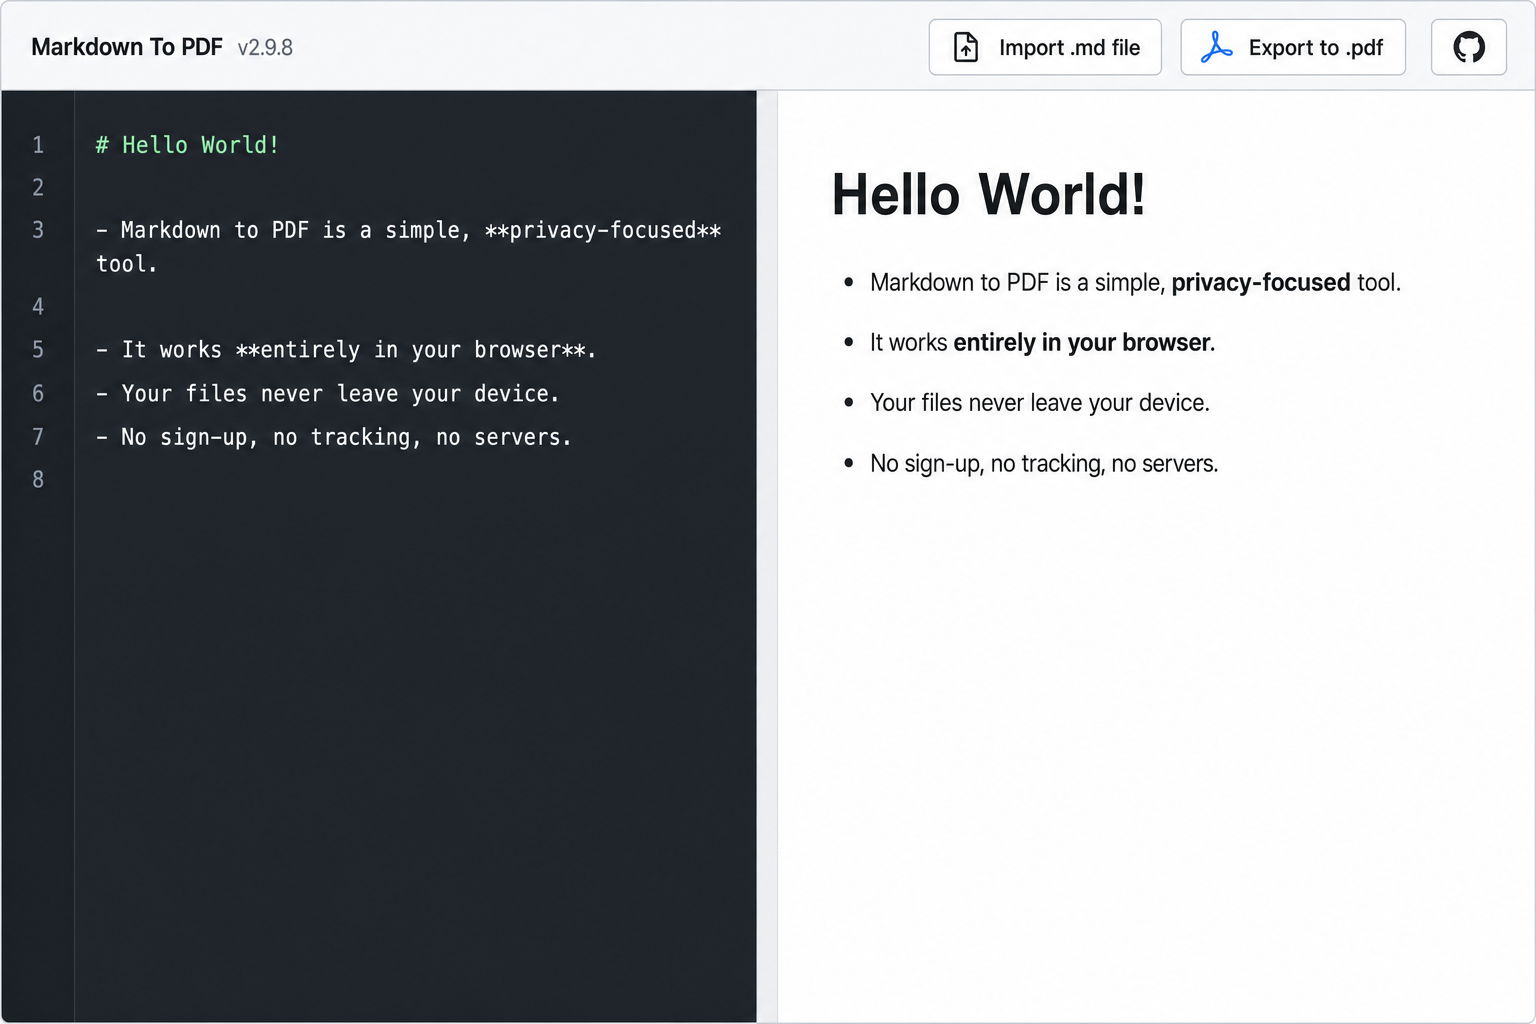
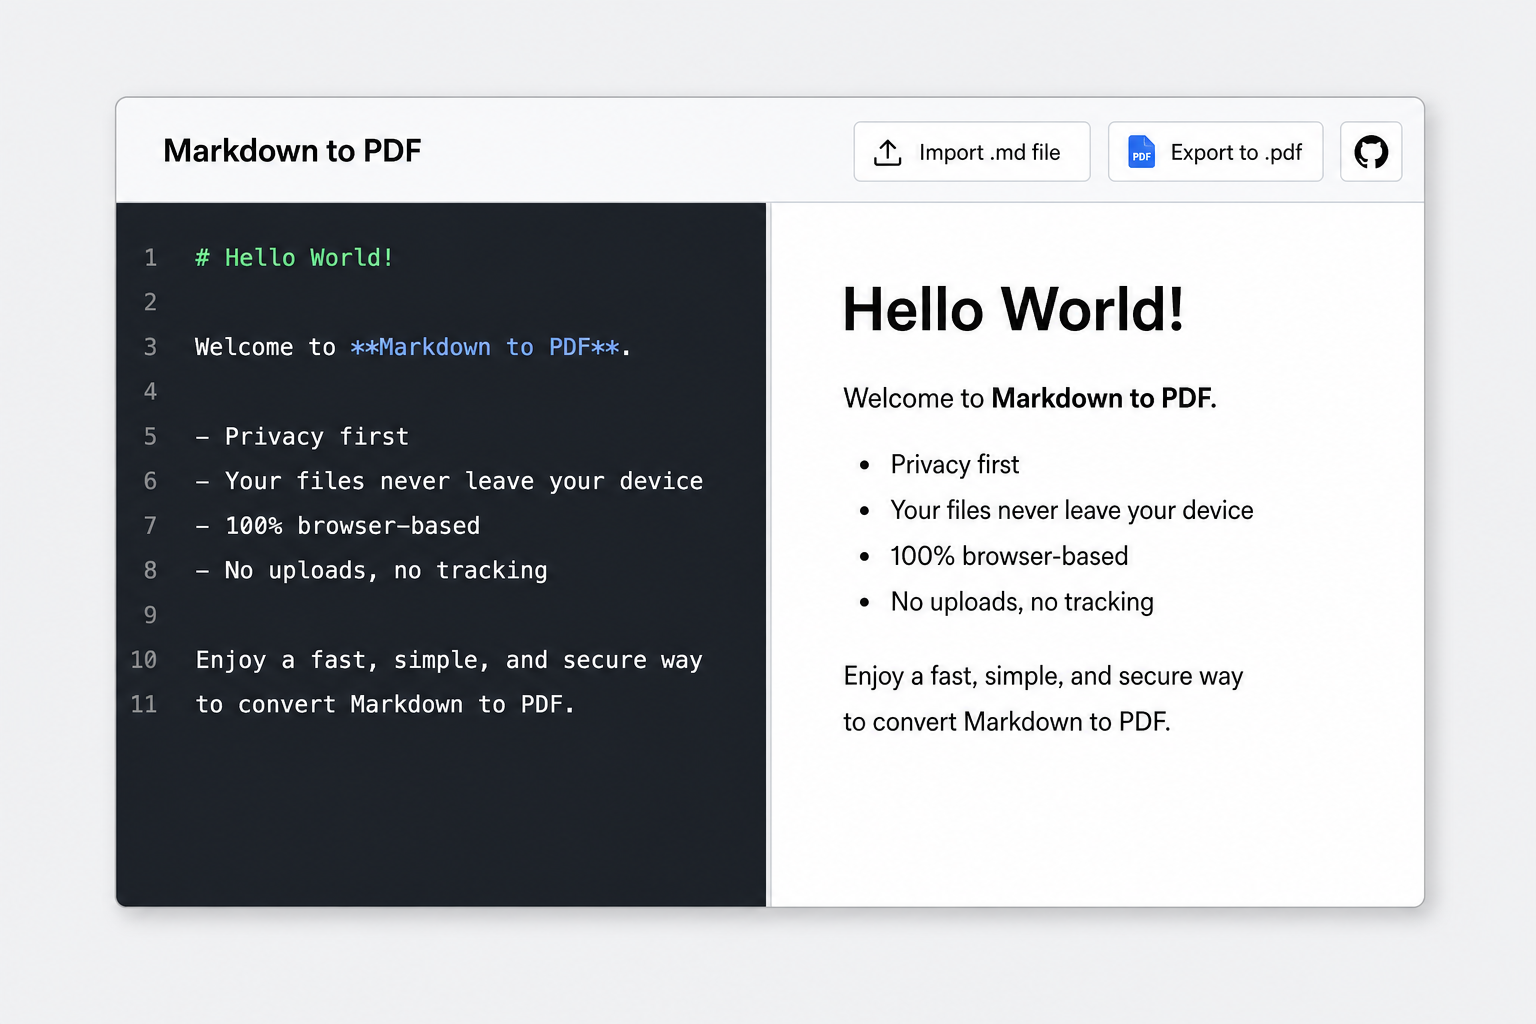
release: v2.9.10 drop header version; readme hero framed mockup

diff --git a/src/App/Components/Header/index.js b/src/App/Components/Header/index.js
@@ -4,9 +4,6 @@ import { Helmet } from 'react-helmet';
 import { FileEarmarkPdfFill, Github } from 'react-bootstrap-icons';
 import UploadButton from './Upload.js';
 import { waitForMermaidRenders } from '../Markdown/Previewer/Mermaid.jsx';
-import packageMeta from '../../../../package.json';
-
-const { version } = packageMeta;
 
 const SOURCE_REPO_URL = 'https://github.com/marcop135/md2pdf';
 
@@ -34,8 +31,7 @@ const Header = ({ className }) => {
       </Helmet>
       <header className={className + ' no-print'}>
         <p className="project">
-          <strong className="brand-title">Markdown to PDF</strong>{' '}
-          <small>v{version}</small>
+          <strong className="brand-title">Markdown to PDF</strong>
         </p>
 
         <div className="menu">
@@ -88,18 +84,6 @@ export default styled(Header)`
 
     .brand-title {
       font-weight: 700;
-    }
-
-    small {
-      margin-left: 4px;
-      color: #656d76;
-      font-weight: 400;
-    }
-
-    @media (max-width: 420px) {
-      small {
-        display: none;
-      }
     }
   }
 

diff --git a/README.md b/README.md
@@ -6,8 +6,8 @@ Turn Markdown into a print-ready PDF in your browser: **live GitHub-flavored pre
   <a href="https://md2pdf.marcopontili.com" target="_blank" rel="noopener noreferrer">
     <img
       src="docs/readme-hero.png"
-      alt="Markdown to PDF: dark CodeMirror editor beside light GitHub-style preview, toolbar with Import, Export, and GitHub"
-      style="max-width: 840px; width: 100%; height: auto"
+      alt="Markdown to PDF: centered app mockup—dark editor and light preview split, toolbar with Import, Export, and GitHub (no version chip)"
+      style="max-width: 720px; width: 100%; height: auto; display: block; margin-inline: auto"
     />
   </a>
 </p>

diff --git a/CHANGELOG.md b/CHANGELOG.md
@@ -1,5 +1,10 @@
 # Changelog
 
+## 2.9.10
+
+- refactor(ui): remove version badge from the header bar (fewer crumbs; semver stays in repo only)
+- docs: readme hero PNG replaced with centered window on neutral margin (reads less edge-stretched on wide layouts)
+
 ## 2.9.9
 
 - style(ui): bold product name **Markdown to PDF** in the header (toolbar actions stay regular weight)
